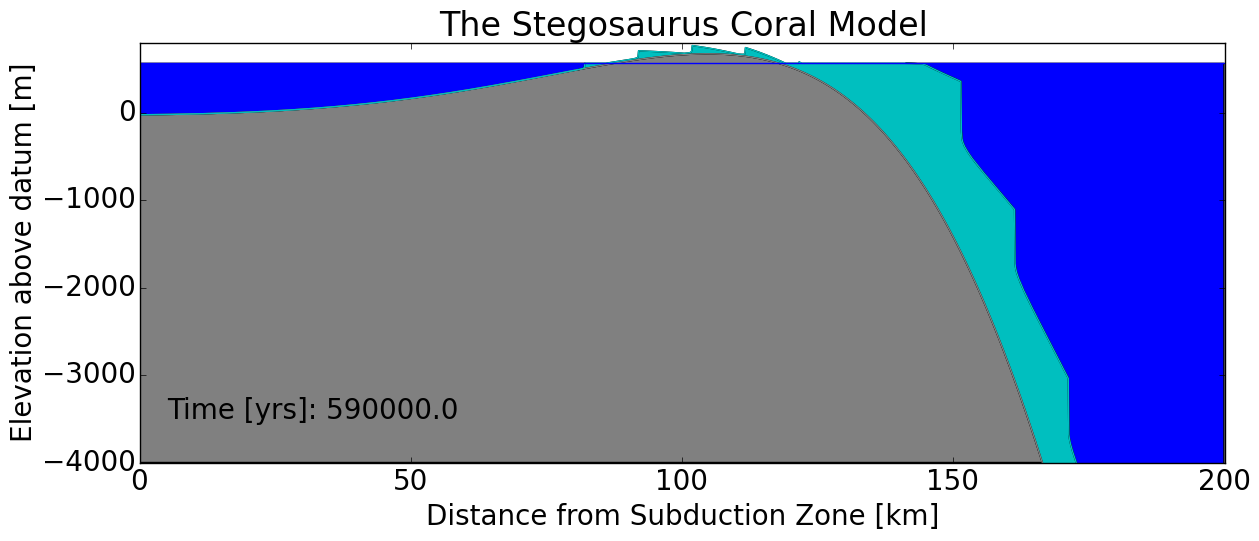
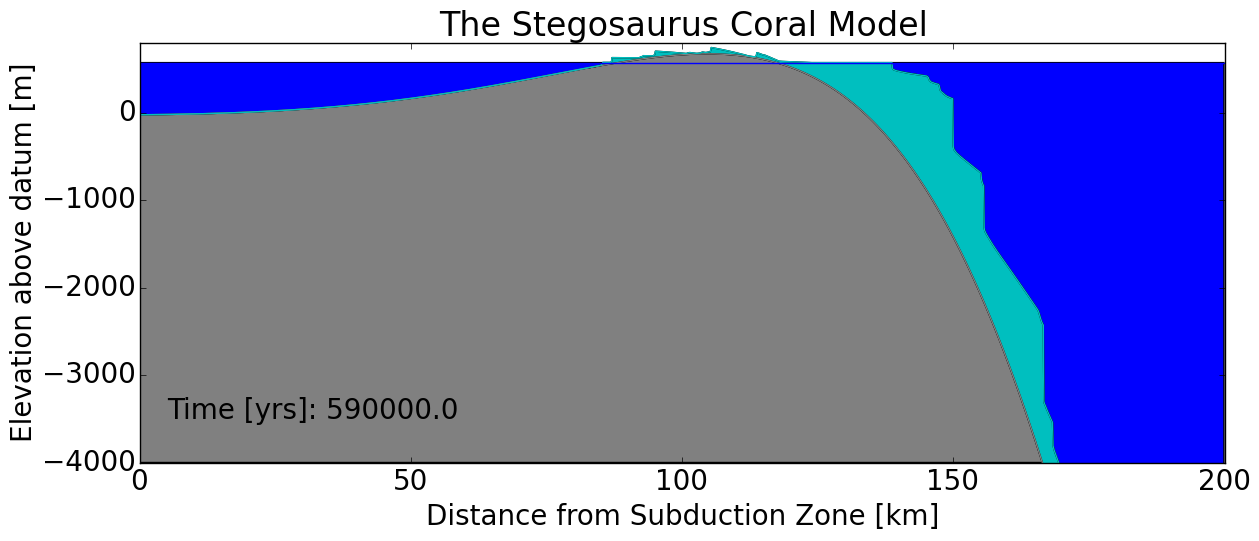
v0 crude, v1 broken AB solver, v3 dO18

diff --git a/shobe_coral_evolution_v3.py b/shobe_coral_evolution_v3.py
@@ -1,0 +1,132 @@
+# -*- coding: utf-8 -*-
+"""
+Created on Wed Jan 27 14:12:12 2016
+
+@author: Charlie
+
+Modeling class, week 3.
+
+Model for coral growth and drowning on a subducting
+or uplifting plate (after Galewsky 1998).
+
+Driven by crudely "scaled" dO18 record.
+Not certain whether I'm running the record backwards or forwards.
+
+USER GUIDE:
+-all user defined variables are set in __name__ block at bottom
+-this will export a figure called 'shobe_coral.png' to your working directory.
+"""
+from __future__ import division #true division
+import numpy as np #numeric python
+import matplotlib #plotting
+import matplotlib.pyplot as plt #plotting
+matplotlib.rcParams.update({'font.size': 20})  #plot font size       
+        
+class Coral: #container to hold all the model functions
+    def flex(self, max_deflec, x, flex_param): #does flexure calcs
+        deflection = max_deflec * np.exp(-(x / flex_param)) * np.cos(x / flex_param)
+        return deflection
+        
+    def grow_coral(self, depth, up_growth_rate, max_up_growth_rate, surf_light_intens, extinct_coeff, saturat_light_intens):
+        self.up_growth_rate[depth > 50] = 0
+        self.up_growth_rate[(depth >= 0) & (depth <= 50)] = max_up_growth_rate * np.tanh(surf_light_intens * np.exp(-extinct_coeff * depth[(depth >= 0) & (depth <= 50)]) / saturat_light_intens)
+        self.up_growth_rate[depth < 0] = 0
+        return self.up_growth_rate
+        
+    def initialize(self, x_min, x_max, dx, t_min, t_max, dt, init_pos_line_load, g, flex_rigid, dens_mantle, dens_ocean, file_name):
+        self.times = np.arange(t_min, t_max + dt, dt) #time vector
+        self.subducting_plate_x = np.arange(x_min, x_max, dx) #space vector
+        self.flex_param = np.power(4 * flex_rigid / ((dens_mantle - dens_ocean) * g), 1/4)
+        self.bedrock_height = np.zeros((len(self.subducting_plate_x)))
+        self.coral_height = np.zeros((len(self.subducting_plate_x)))
+        self.up_growth_rate = np.zeros((len(self.subducting_plate_x)))
+        self.pos_line_load = init_pos_line_load   
+        if isotope_or_sinusoid == 0: #isotope record drives sea level
+            isotope_record = np.genfromtxt(file_name, dtype=float)
+            isotope_record_times = isotope_record[0:t_max/1000+1, 0] * 1000
+            isotope_record_values = isotope_record[0:t_max/1000+1, 1]
+            isotope_scaled_to_sea_level = ((5.09 - isotope_record_values) * 60) - 60           
+            interpolated_sea_levels = np.interp(self.times, isotope_record_times, isotope_scaled_to_sea_level)
+            sea_level_condition = interpolated_sea_levels
+        else: #sinusoid drives sea level
+            sea_level_condition = 60 * np.sin(self.times / (5000 * np.pi))
+        self.schematic_fig = plt.figure(figsize=(14,6)) #instantiate figure
+        self.schematic = plt.subplot()
+        plt.gcf().subplots_adjust(bottom=0.20)
+        plt.xlabel('Distance from Subduction Zone [km]')
+        plt.ylabel('Elevation above datum [m]')
+        plt.ion()
+        plt.show()
+        
+        return sea_level_condition
+            
+    def run(self, sea_level_condition, max_deflection, conv_rate, t_plot, dt, max_up_growth_rate, surf_light_intens, extinct_coeff, saturat_light_intens):
+        x = self.pos_line_load - self.subducting_plate_x #distance from load to point
+        x_for_plotting = np.arange(x_min/1000, x_max/1000, dx/1000)
+        deflection = coral_model.flex(max_deflection, x, self.flex_param)
+        bedrock_height = -deflection
+        msl = max(bedrock_height-100)
+        run_count = 0
+        for t in range(len(self.times)-1):
+            run_count +=1 #keep track of iterations
+            current_time = self.times[t]
+            rel_sl = msl + sea_level_condition[run_count - 1]
+            x = abs(self.pos_line_load - self.subducting_plate_x) #distance from load to point
+            deflection = coral_model.flex(max_deflection, x, self.flex_param)
+            self.bedrock_height = -deflection #adjust bedrock height to account for deflection
+            depth = rel_sl - (self.bedrock_height + self.coral_height)
+            self.up_growth_rate = coral_model.grow_coral(depth, self.up_growth_rate, max_up_growth_rate, surf_light_intens, extinct_coeff, saturat_light_intens)
+            self.coral_height += (self.up_growth_rate * dt) #THIS IS THE SOLVER STEP!!!
+            self.pos_line_load -= (conv_rate * dt) #advance line load to the "left"
+            plate_for_plot = self.subducting_plate_x[self.subducting_plate_x <= self.pos_line_load]
+            x_for_plotting = x_for_plotting[self.subducting_plate_x/1000 <= self.pos_line_load/1000]
+            if current_time % t_plot == 0: #do plotting and filling 
+                self.schematic.clear()
+                self.schematic.plot(x_for_plotting, self.bedrock_height[0:len(plate_for_plot)], color='.5', label='Bedrock')
+                self.schematic.plot(x_for_plotting, self.bedrock_height[0:len(plate_for_plot)]+self.coral_height[0:len(plate_for_plot)], color='c', label='Coral')
+                self.schematic.plot((min(x_for_plotting), max(self.subducting_plate_x)), (rel_sl, rel_sl), color='b', label='Water')
+                self.schematic.fill_between(x_for_plotting, -4000, self.bedrock_height[0:len(plate_for_plot)], facecolor='.5', interpolate=True)
+                self.schematic.fill_between(self.subducting_plate_x/1000, self.bedrock_height+self.coral_height, rel_sl, where=rel_sl >self.bedrock_height+self.coral_height, facecolor='b', interpolate=True)
+                self.schematic.fill_between(x_for_plotting, self.bedrock_height[0:len(plate_for_plot)], self.bedrock_height[0:len(plate_for_plot)]+self.coral_height[0:len(plate_for_plot)], where=self.bedrock_height[0:len(plate_for_plot)]+self.coral_height[0:len(plate_for_plot)] >self.bedrock_height[0:len(plate_for_plot)], facecolor='c', interpolate=True)
+                self.schematic.set_ylim(-4000, 800)
+                self.schematic.set_xlim(0, 200)
+                plt.title('The Stegosaurus Coral Model')
+                plt.xlabel('Distance from Subduction Zone [km]')
+                plt.ylabel('Elevation above datum [m]')
+                plt.text(5, -3500, 'Time [yrs]: %.1f' % current_time)
+                plt.pause(0.2)
+            else:
+                pass
+            
+    def finalize(self):
+        self.schematic_fig.savefig('shobe_corals.png', bbox_inches='tight')
+        
+if __name__ == "__main__": 
+    isotope_or_sinusoid = 0 #0 for isotope record, 1 for sinusoid
+    x_min = 0 #m
+    x_max = 200000 #m
+    dx = 100 #m
+    t_min = 0 #years
+    t_max = 600000 #years
+    dt = 10 #yrs
+    t_plot = 10000#years
+    init_pos_line_load = 250000 #m, end of x domain
+    conv_rate = 0.1 #convergence rate, m/yr
+    max_deflec = 10000 #max deflection, m
+    g = 9.81 #ms-2
+    flex_rigid = 1e22 #flexural rigidity, Nm
+    dens_mantle = 3300 #kg/m3
+    dens_ocean = 1030 #kg/m3
+    max_up_growth_rate = .012 #m/yr
+    extinct_coeff = .16 #/m
+    surf_light_intens = 2250 #uE m-2 s-1
+    saturat_light_intens = 450 #uE m-2 s-1
+    sl_file_name = 'Pleist_oxy.txt'
+    #instantiate classes
+    coral_model = Coral()
+    #INITIALIZE
+    sl_condition = coral_model.initialize(x_min, x_max, dx, t_min, t_max, dt, init_pos_line_load, g, flex_rigid, dens_mantle, dens_ocean, sl_file_name)
+    #RUN
+    coral_model.run(sl_condition, max_deflec, conv_rate, t_plot, dt, max_up_growth_rate, surf_light_intens, extinct_coeff, saturat_light_intens)
+    #FINALIZE
+    coral_model.finalize()

diff --git a/shobe_coral_evolution_v0.py b/shobe_coral_evolution_v0.py
@@ -1,0 +1,106 @@
+# -*- coding: utf-8 -*-
+"""
+Created on Wed Jan 27 14:12:12 2016
+
+@author: Charlie
+
+Modeling class, week 3.
+
+Model for coral growth and drowning on a subducting
+or uplifting plate (after Galewsky 1998).
+"""
+from __future__ import division
+import numpy as np
+import matplotlib
+import matplotlib.pyplot as plt
+matplotlib.rcParams.update({'font.size': 20})
+###############Initialize
+y_min = -1000 #for plot
+y_max = 0 #for plot
+t_plot = 10000#years
+t_min = 0 #years
+t_max = 600000 #years
+dt = 10 #yrs
+times = np.arange(t_min, t_max + dt, dt) #time vector
+max_up_growth_rate = .012 #m/yr
+extinct_coeff = .16 #/m
+surf_light_intens = 2250 #uE m-2 s-1
+saturat_light_intens = 450 #uE m-2 s-1
+
+#plate and flexure
+initial_pos_line_load = 250000 #m, end of x domain
+convergence_rate = .1 #m/yr
+max_deflection = 10000 #m
+g = 9.81 #m/s^2
+flex_rigid = 1e22 #Nm
+dens_mantle = 3300 #kg/m3
+dens_ocean = 1030 #kg/m3
+flex_param = np.power(4 * flex_rigid / ((dens_mantle - dens_ocean) * g), 1/4)
+
+#time domain
+#spatial domain, sloping plate with line load
+#ALL DEPTHS RELATIVE TO MEAN SEA LEVEL, WHICH IS AN UNCHANGING DATUM
+x_min = 0 #m
+x_max = 200000 #m
+dx = 100 #m
+subducting_plate_x = np.arange(x_min, x_max, dx) #meters
+bedrock_height = np.zeros((len(subducting_plate_x))) #meters. down-to-right tilt
+coral_height = np.zeros((len(bedrock_height)))
+
+sea_level_condition = 60 * np.sin(times / (5000 * np.pi))
+up_growth_rate = np.zeros((len(bedrock_height)))
+###############Run
+pos_line_load = initial_pos_line_load
+##within loop:
+schematic_fig = plt.figure(figsize=(10,4)) #instantiate figure
+schematic = plt.subplot()
+plt.gcf().subplots_adjust(bottom=0.20)
+plt.xlabel('Distance from Subduction Zone [km]')
+plt.ylabel('Elevation above datum [m]')
+schematic.set_ylim(600, 800)
+schematic.set_xlim(0, 40000)
+plt.ion()
+plt.show()
+
+x = pos_line_load - subducting_plate_x #distance from load to point
+x_for_plotting = np.arange(x_min/1000, x_max/1000, dx/1000)
+deflection = max_deflection * np.exp(-(x / flex_param)) * np.cos(x / flex_param)
+bedrock_height = -deflection
+msl = max(bedrock_height-100)
+run_count = 0
+for t in range(len(times)-1):
+    run_count +=1 #keep track of iterations
+    current_time = times[t]
+    #print run_count
+    rel_sl = msl + sea_level_condition[run_count - 1]
+    #calculate the deflection of the plate (analytical flexure equation)
+    x = abs(pos_line_load - subducting_plate_x) #distance from load to point
+    deflection = max_deflection * np.exp(-(x / flex_param)) * np.cos(x / flex_param)
+    bedrock_height = -deflection
+    depth = rel_sl - (bedrock_height + coral_height)
+    up_growth_rate[depth > 50] = 0
+    up_growth_rate[(depth >= 0) & (depth <= 50)] = max_up_growth_rate * np.tanh(surf_light_intens * np.exp(-extinct_coeff * depth[(depth >= 0) & (depth <= 50)]) / saturat_light_intens)
+    up_growth_rate[depth < 0] = 0
+    coral_height += (up_growth_rate * dt) #THIS IS THE SOLVER STEP!!!
+    pos_line_load -= (convergence_rate * dt)
+    plate_for_plot = subducting_plate_x[subducting_plate_x <= pos_line_load]
+    x_for_plotting = x_for_plotting[subducting_plate_x/1000 <= pos_line_load/1000]
+    if current_time % t_plot == 0:
+        #print current_time
+        schematic.clear()
+        schematic.plot(x_for_plotting, bedrock_height[0:len(plate_for_plot)], color='.5', label='Bedrock')
+        schematic.plot(x_for_plotting, bedrock_height[0:len(plate_for_plot)]+coral_height[0:len(plate_for_plot)], color='c', label='Coral')
+        schematic.plot((min(x_for_plotting), max(subducting_plate_x)), (rel_sl, rel_sl), color='b', label='Water')
+        #schematic.plot((pos_line_load/1000, pos_line_load/1000), (y_min, y_max), label='Line load')
+        schematic.fill_between(x_for_plotting, -4000, bedrock_height[0:len(plate_for_plot)], facecolor='.5', interpolate=True)
+        schematic.fill_between(subducting_plate_x/1000, bedrock_height+coral_height, rel_sl, where=rel_sl >bedrock_height+coral_height, facecolor='b', interpolate=True)
+        schematic.fill_between(x_for_plotting, bedrock_height[0:len(plate_for_plot)], bedrock_height[0:len(plate_for_plot)]+coral_height[0:len(plate_for_plot)], where=bedrock_height[0:len(plate_for_plot)]+coral_height[0:len(plate_for_plot)] >bedrock_height[0:len(plate_for_plot)], facecolor='c', interpolate=True)
+        schematic.set_ylim(-4000, 800)
+        schematic.set_xlim(0, 200)
+        plt.xlabel('Distance from Subduction Zone [km]')
+        plt.ylabel('Elevation above datum [m]')
+        plt.text(5, -3500, 'Time [yrs]: %.1f' % current_time)
+        plt.pause(0.2)
+    else:
+        pass
+################Finalize

diff --git a/shobe_coral_evolution_v1.py b/shobe_coral_evolution_v1.py
@@ -1,0 +1,107 @@
+# -*- coding: utf-8 -*-
+"""
+Created on Wed Jan 27 14:12:12 2016
+
+@author: Charlie
+
+Modeling class, week 3.
+
+Model for coral growth and drowning on a subducting
+or uplifting plate (after Galewsky 1998).
+
+Adams-Bashforth 3 solver
+"""
+from __future__ import division
+import numpy as np
+import matplotlib.pyplot as plt
+
+###############Initialize
+y_min = -1000 #for plot
+y_max = 0 #for plot
+t_plot = 10000#years
+t_min = 0 #years
+t_max = 10000000 #years
+dt = 10 #yrs
+times = np.arange(t_min, t_max + dt, dt) #time vector
+#parameters:
+#mean sea level (DATUM)
+#msl = 0 #m relative to msl
+#coral growth
+max_up_growth_rate = .012 #m/yr
+extinct_coeff = .16 #/m
+surf_light_intens = 2250 #uE m-2 s-1
+saturat_light_intens = 450 #uE m-2 s-1
+
+#plate and flexure
+initial_pos_line_load = 250000 #m, end of x domain
+convergence_rate = .1 #m/yr
+max_deflection = 10000 #m
+g = 9.81 #m/s^2
+flex_rigid = 1e22 #Nm
+dens_mantle = 3300 #kg/m3
+dens_ocean = 1030 #kg/m3
+flex_param = np.power(4 * flex_rigid / ((dens_mantle - dens_ocean) * g), 1/4)
+
+#time domain
+#spatial domain, sloping plate with line load
+#ALL DEPTHS RELATIVE TO MEAN SEA LEVEL, WHICH IS AN UNCHANGING DATUM
+subducting_plate_x = np.arange(0, 200000, 100) #meters
+bedrock_height = np.arange(0, -2000, -1) #meters. down-to-right tilt
+coral_height = np.zeros((len(bedrock_height)))
+
+sea_level_condition = 60 * np.sin(times / (5000 * np.pi))
+up_growth_rate = np.zeros((len(bedrock_height)))
+###############Run
+pos_line_load = initial_pos_line_load
+##within loop:
+schematic_fig = plt.figure(figsize=(4,8)) #instantiate figure
+schematic = plt.subplot()
+#plt.gca().invert_xaxis()
+schematic.set_ylim(600, 800)
+schematic.set_xlim(0, 40000)
+plt.ion()
+plt.show()
+
+x = pos_line_load - subducting_plate_x #distance from load to point
+deflection = max_deflection * np.exp(-(x / flex_param)) * np.cos(x / flex_param)
+bedrock_height = -deflection
+msl = max(bedrock_height-100)
+run_count = 0
+for t in range(len(times)-1):
+    run_count +=1 #keep track of iterations
+    current_time = times[t]
+    #print run_count
+    rel_sl = msl + sea_level_condition[run_count - 1]
+    #calculate the deflection of the plate (analytical flexure equation)
+    x = abs(pos_line_load - subducting_plate_x) #distance from load to point
+    deflection = max_deflection * np.exp(-(x / flex_param)) * np.cos(x / flex_param)
+    bedrock_height = -deflection
+    #grow coral (will need editing if using fancy solver)
+    depth = rel_sl - (bedrock_height + coral_height)
+    #np.where(depth > 0, up_growth_rate = 0, up_growth_rate = 99)
+    up_growth_rate[depth > 50] = 0
+    up_growth_rate[(depth >= 0) & (depth <= 50)] = max_up_growth_rate * np.tanh(surf_light_intens * np.exp(-extinct_coeff * depth[(depth >= 0) & (depth <= 50)]) / saturat_light_intens)
+    up_growth_rate[depth < 0] = 0
+    #print max(up_growth_rate)
+    coral_height += (up_growth_rate * dt) #THIS IS THE SOLVER STEP!!!
+    
+    #advance position of the line load towards the foreland by [conv rate * dt]
+    pos_line_load -= (convergence_rate * dt)
+    plate_for_plot = subducting_plate_x[subducting_plate_x <= pos_line_load]
+    #change RELATIVE SEA LEVEL (tectonic subsidence + eustatic sea level change)
+    #plot schematic of model space
+    if current_time % t_plot == 0:
+        print current_time
+        schematic.clear()
+        schematic.plot(plate_for_plot, bedrock_height[0:len(plate_for_plot)], color='k', label='Bedrock')
+        schematic.plot(plate_for_plot, bedrock_height[0:len(plate_for_plot)]+coral_height[0:len(plate_for_plot)], color='c', label='Coral')
+        schematic.plot((min(plate_for_plot), max(plate_for_plot)), (rel_sl, rel_sl), color='b', label='Water')
+        schematic.plot((pos_line_load, pos_line_load), (y_min, y_max), label='Line load')
+        schematic.set_ylim(-4000, 800)
+        schematic.set_xlim(0, 200000)
+        #schematic.clear()    
+        #plt.draw()
+        plt.pause(0.2)
+    else:
+        pass
+################Finalize
